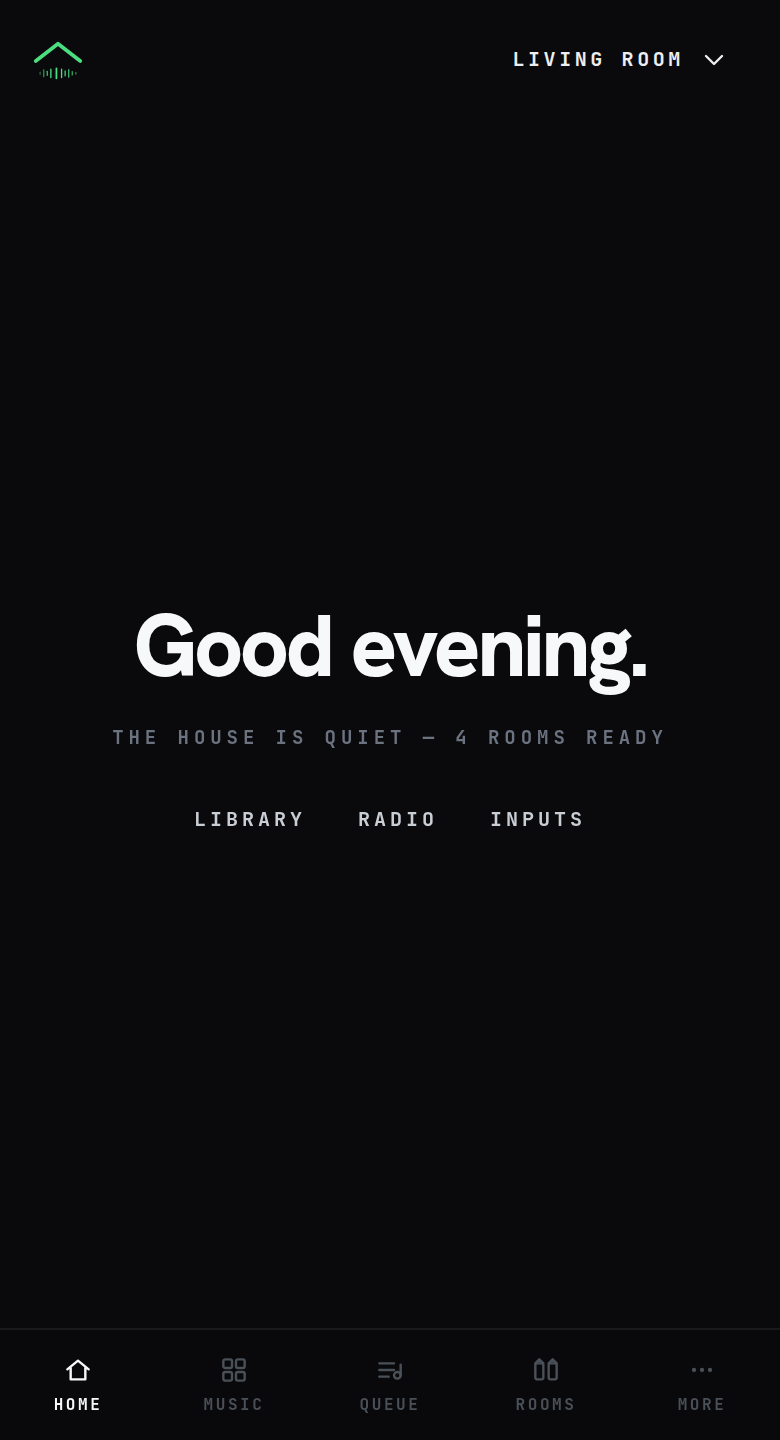
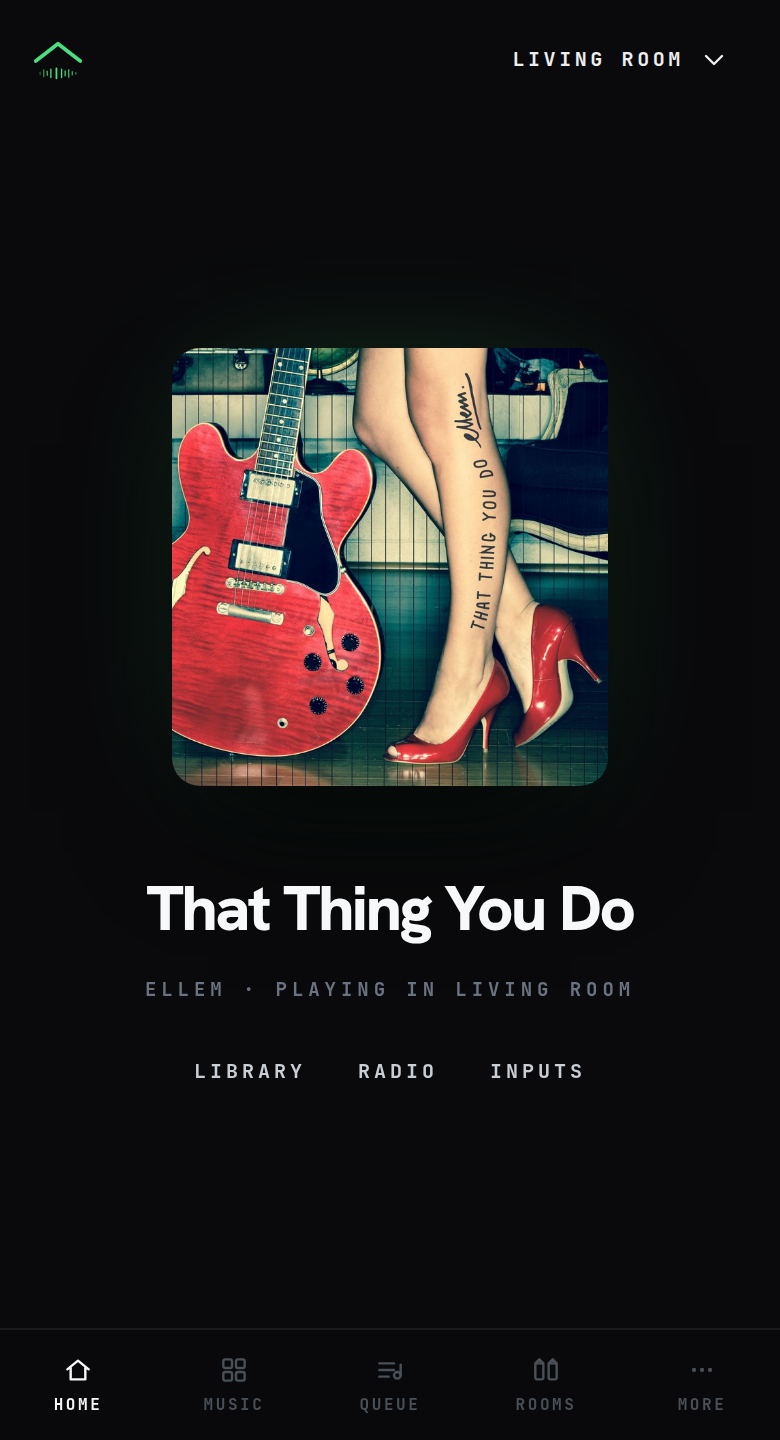
feat(site): That Thing You Do — real music in the player shot
The phone screenshot now shows the player with Ellem's 'That Thing You
Do' front and center — cover art, title, 'playing in Living room'. The
UI is the shipped player photographing itself; the track was staged
into it (the container has no speakers to actually drive).

The cover had to be served same-origin: the player's CSP rightly
refuses external images, so the screenshot session intercepted the
request instead of weakening anything.

diff --git a/de/index.html b/de/index.html
@@ -469,7 +469,7 @@
             <!-- The player itself: a real screenshot, in a bezel — not a mockup. -->
             <div class="phone-wrap rise">
               <figure class="phone phone-real">
-                <img src="../assets/shots/player-mobile.png" width="780" height="1440" alt="Der sonn Web-Player auf einem Handy: Good evening — the house is quiet, 4 rooms ready" loading="lazy" />
+                <img src="../assets/shots/player-mobile.png" width="780" height="1440" alt="Der sonn Web-Player auf einem Handy, mit That Thing You Do von Ellem im Wohnzimmer" loading="lazy" />
                 <figcaption class="shot-caption mono">der echte player · kein mockup</figcaption>
               </figure>
             </div>

diff --git a/index.html b/index.html
@@ -497,7 +497,7 @@
             <!-- The player itself: a real screenshot, in a bezel — not a mockup. -->
             <div class="phone-wrap rise">
               <figure class="phone phone-real">
-                <img src="assets/shots/player-mobile.png" width="780" height="1440" alt="The sonn web player on a phone: Good evening — the house is quiet, 4 rooms ready" loading="lazy" />
+                <img src="assets/shots/player-mobile.png" width="780" height="1440" alt="The sonn web player on a phone, playing That Thing You Do by Ellem in the living room" loading="lazy" />
                 <figcaption class="shot-caption mono">the actual player · not a mockup</figcaption>
               </figure>
             </div>
